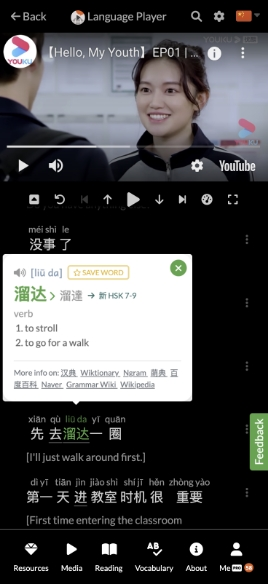
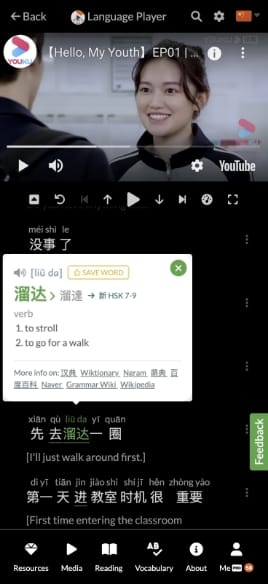
Optimize images.

diff --git a/pages/index.vue b/pages/index.vue
@@ -258,7 +258,7 @@
             </client-only>
             <div class="mt-4">
               <img
-                src="/img/language-list.png"
+                src="/img/language-list.jpg"
                 alt="List of 217 languages"
                 class="rounded img-fluid"
               />
